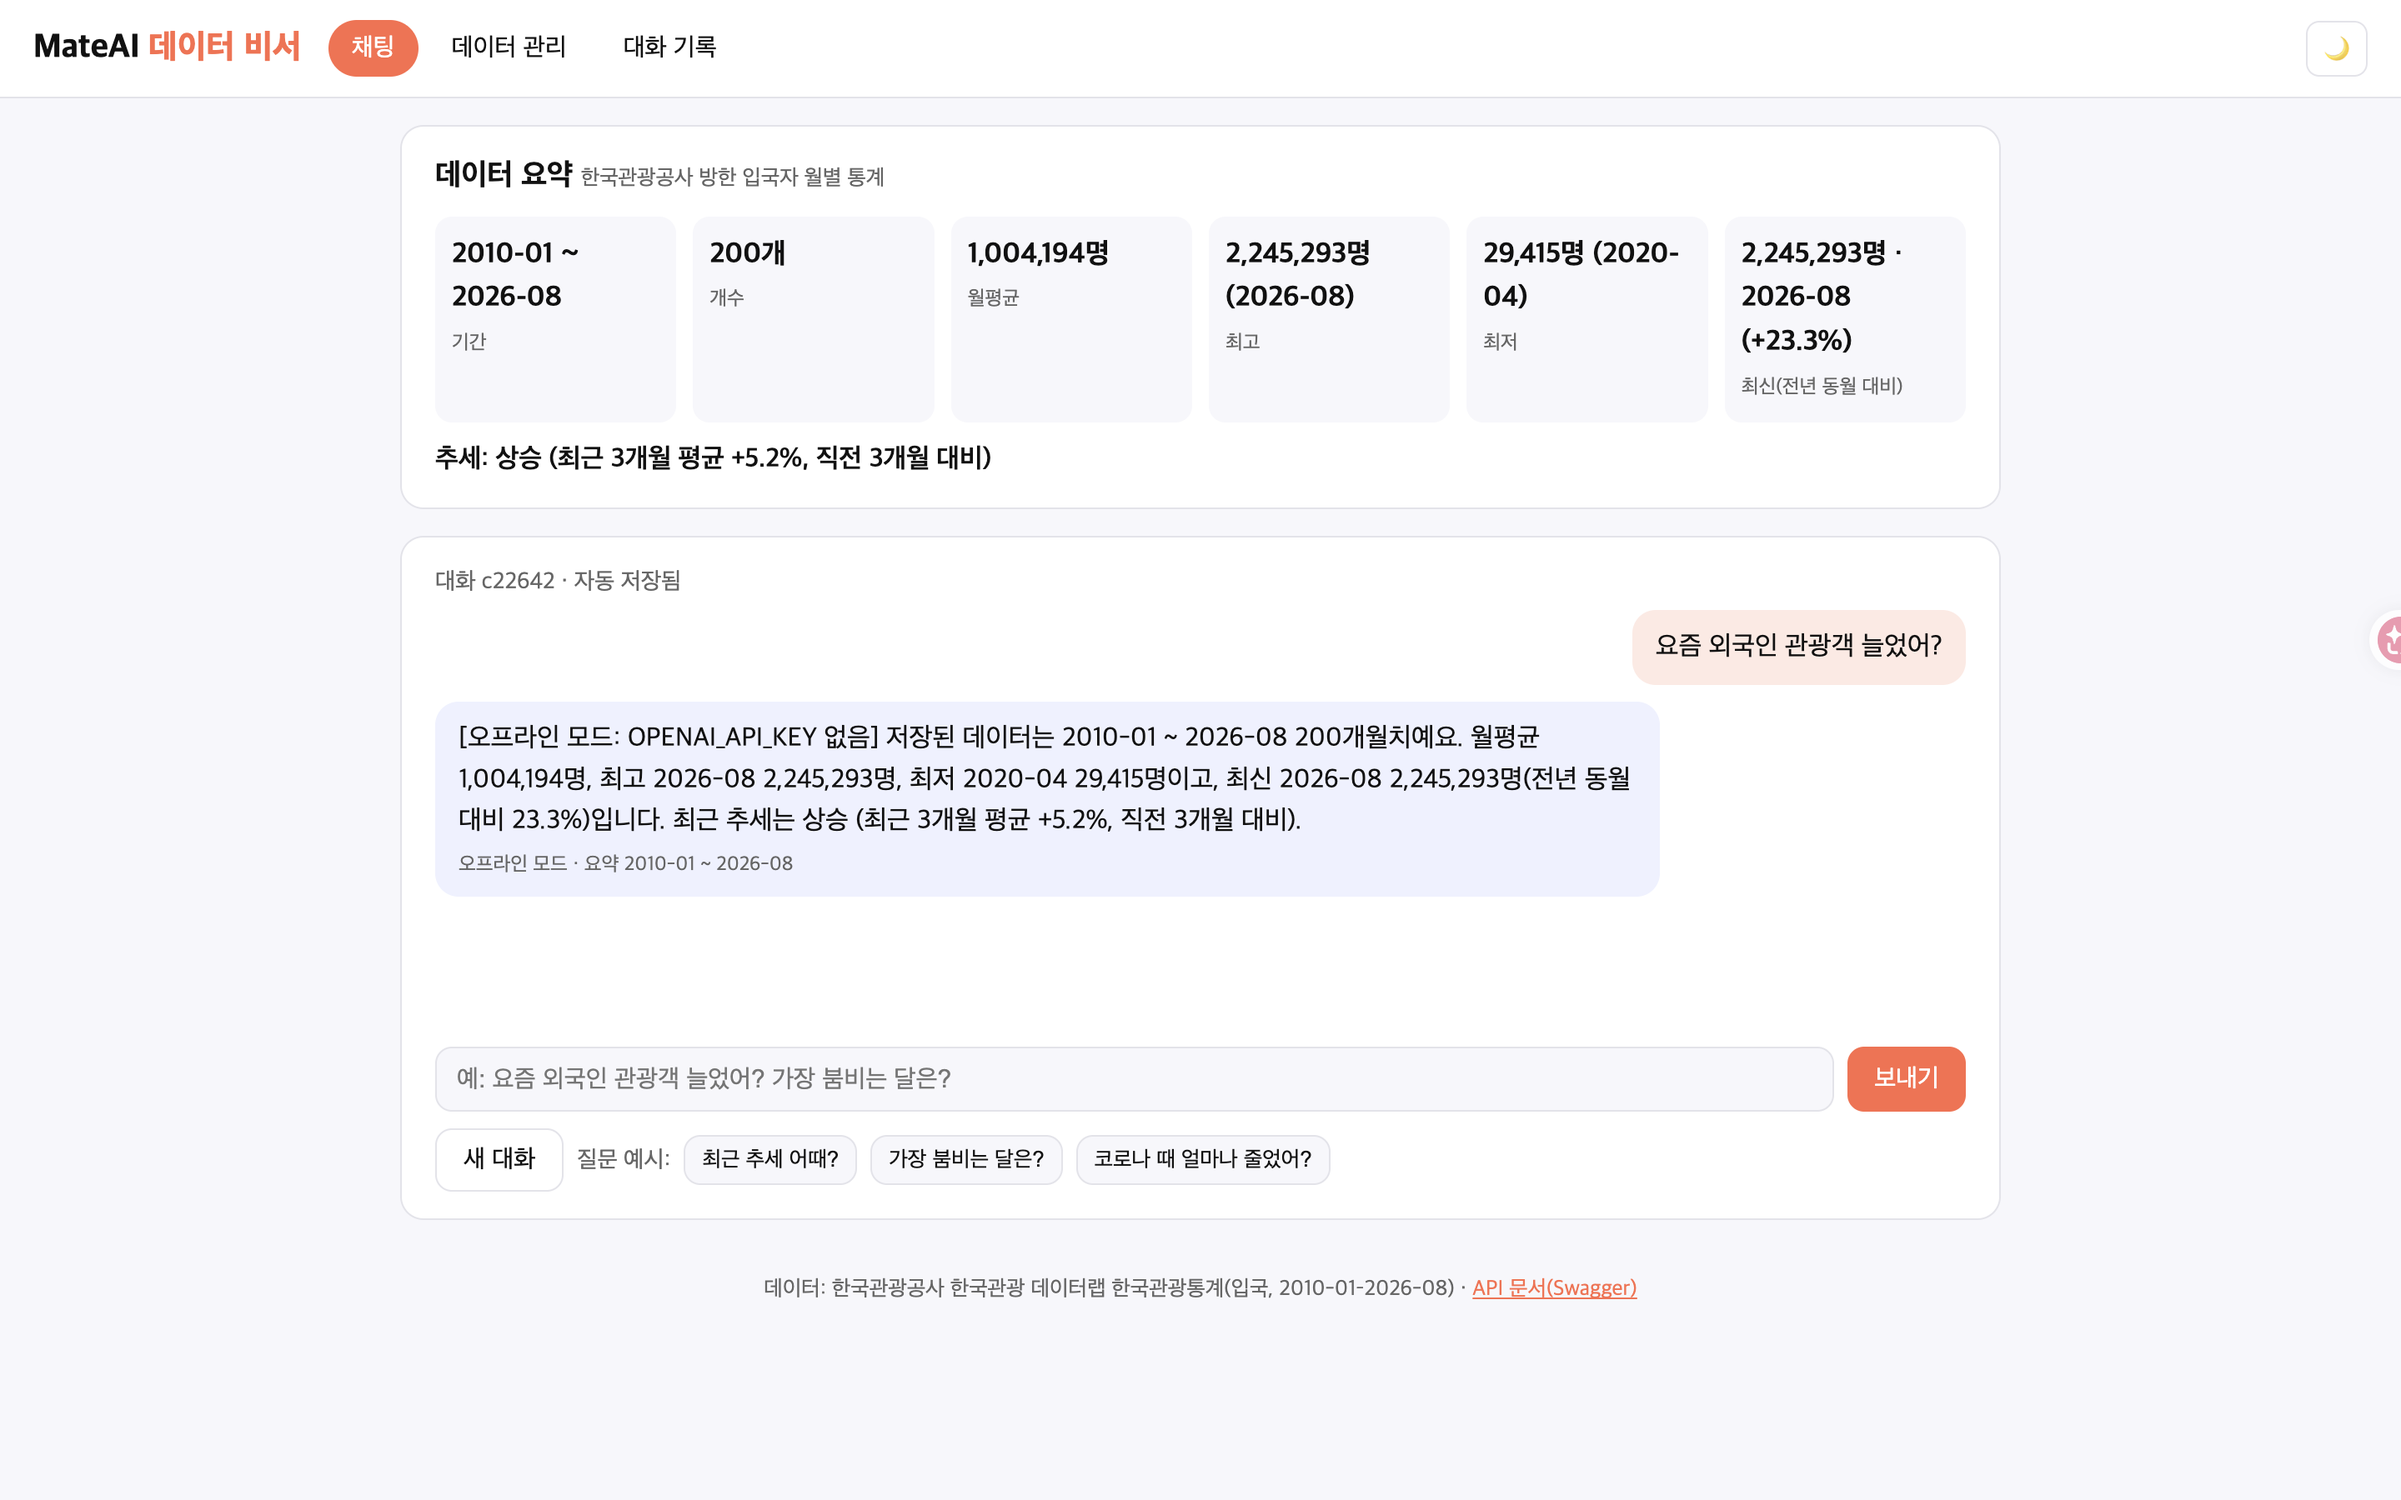
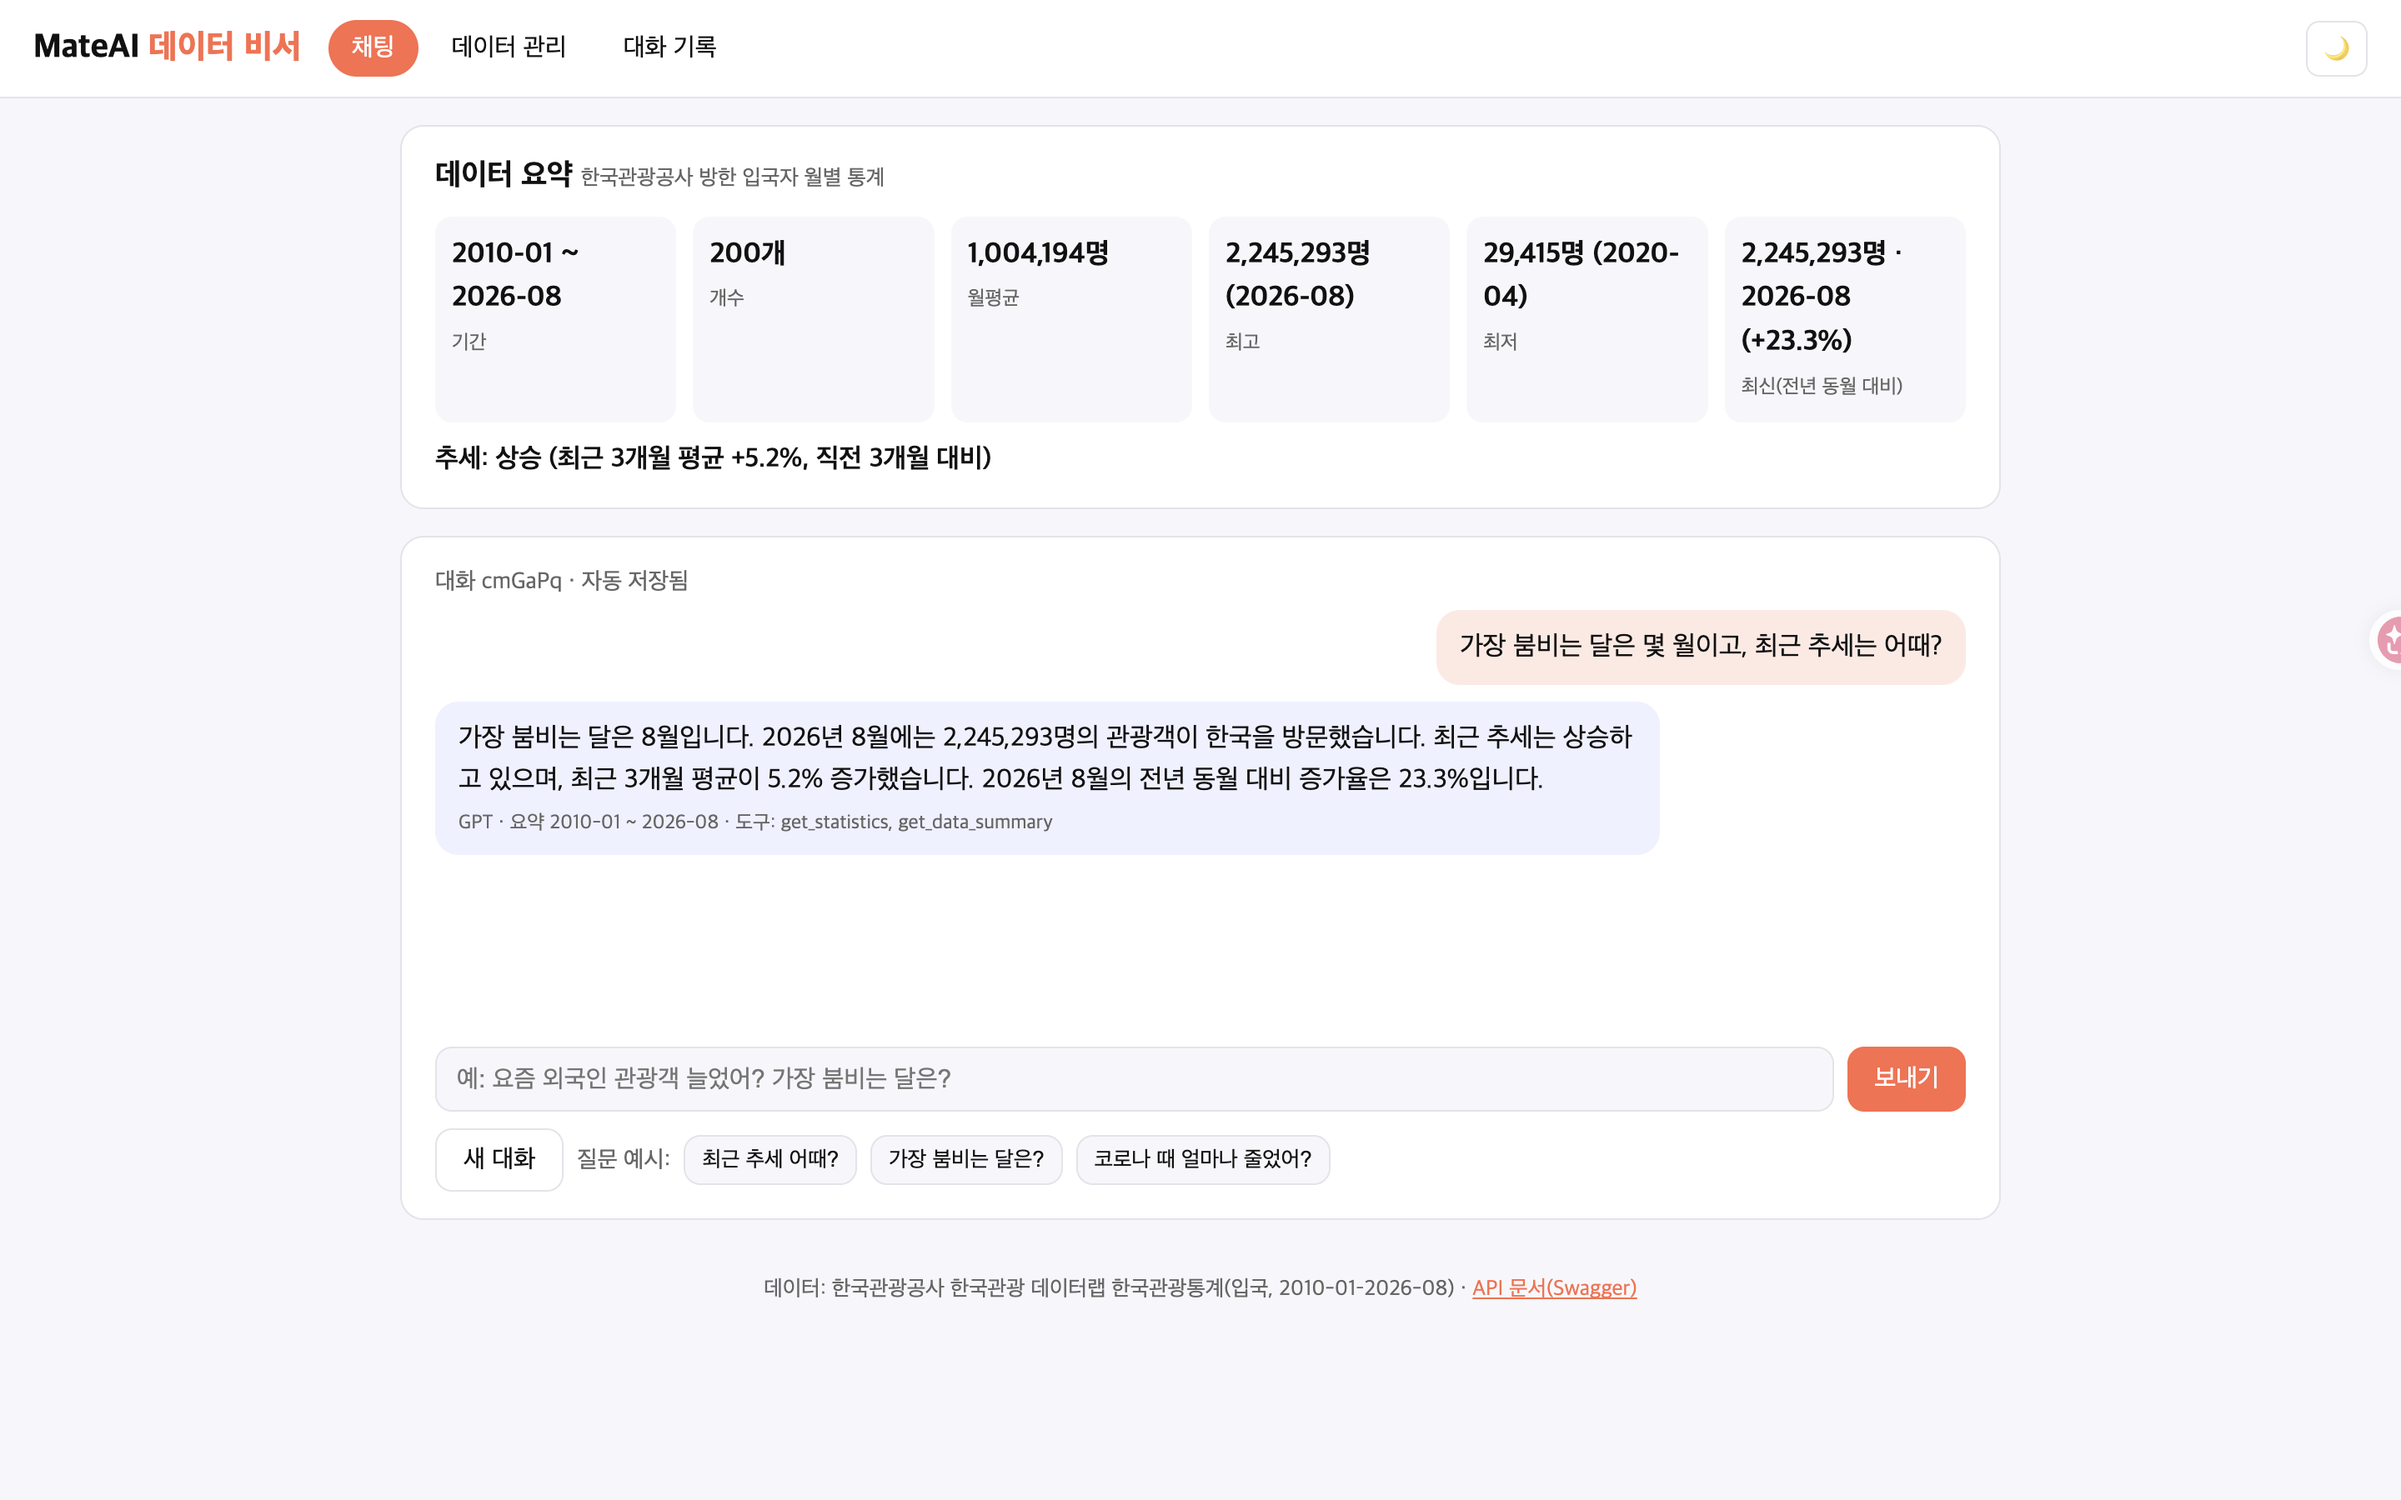
[Aside 9RMv1D9xEvZZywq0] GPT·Firestore 모드 스크린샷과 상태 갱신

Changed region(s): [[0.1875, 0.4044, 0.8125, 0.5911], [0.2188, 0.3733, 0.2812, 0.4044]]

diff --git a/README.md b/README.md
@@ -15,8 +15,7 @@
 | 솔루션 메이트 플랫폼(입장) | https://trymateai.com/ |
 | MateAI 여행 데모 | https://mateai-web-jk4v-two.vercel.app/ |
 | 이 과제 프론트(Vercel) | https://mateai-data-assistant.vercel.app/ |
-| 백엔드 API(Render, 규정 배포처) | https://mateai-data-assistant-api.onrender.com (배포 진행 중) |
-| 백엔드 API(Vercel, 예비) | https://mateai-data-assistant-api.vercel.app |
+| 백엔드 API(Vercel, Render 대체: 10-1절) | https://mateai-data-assistant-api.vercel.app |
 | Swagger UI | https://mateai-data-assistant-api.vercel.app/docs |
 
 ## 2. 데이터
@@ -45,9 +44,9 @@ MateAI 엔진이 이미 쓰는 공공 API(한국관광공사 TourAPI `apis.data.
 |---|---|---|---|
 | **FastAPI** | 파이썬으로 웹 API 서버를 만드는 프레임워크. 코드에서 Swagger 문서(`/docs`)를 자동으로 만든다. | 데이터 CRUD·요약·대화 기록·채팅 API 전부. 라우터(HTTP)와 서비스(계산·저장·AI)를 나눴다. | 완료. https://mateai-data-assistant-api.vercel.app/docs |
 | **Pydantic** | 들어오는 JSON의 형식을 검사하는 파이썬 라이브러리. | 날짜 형식, 입국자 수 0 이상, 메모 500자, 질문 2,000자 제한. 틀리면 422 오류로 막는다. | 완료 (`backend/app/schemas.py`) |
-| **Firebase Firestore** | Google의 클라우드 문서형 데이터베이스. 서버를 꺼도 데이터가 남는다. | `data` 컬렉션(관광 통계 200개, CRUD 대상)과 `conversations` 컬렉션(대화 기록 저장·불러오기). | 프로젝트 `mateai-data-assistant`·DB(서울) 생성 완료. **서비스 계정 키를 서버 환경 변수에 넣기 전이라, 지금 배포본은 임시 메모리 저장소로 돈다.** |
+| **Firebase Firestore** | Google의 클라우드 문서형 데이터베이스. 서버를 꺼도 데이터가 남는다. | `data` 컬렉션(관광 통계 200개, CRUD 대상)과 `conversations` 컬렉션(대화 기록 저장·불러오기). | 완료. 프로젝트 `mateai-data-assistant`, DB 서울(asia-northeast3). 배포본 `/health` = `store: firestore` |
 | **firebase-admin** | 서버가 Firestore에 접속하는 공식 파이썬 SDK. | `FIREBASE_SERVICE_ACCOUNT_JSON` 환경 변수로 로그인한다(키는 코드에 없음). | 코드 완료 (`services/store.py`) |
-| **OpenAI GPT API** | 대화형 AI 모델을 부르는 유료 API. | 시스템 프롬프트에 데이터 요약을 넣어 답하게 하고(컨텍스트 주입), 필요하면 도구 3개를 직접 부르게 한다(Function Calling). | 코드 완료. **`OPENAI_API_KEY`를 넣기 전이라 지금은 요약 숫자로 만든 정해진 답(오프라인 모드)을 낸다.** |
+| **OpenAI GPT API** | 대화형 AI 모델을 부르는 유료 API. | 시스템 프롬프트에 데이터 요약을 넣어 답하게 하고(컨텍스트 주입), 필요하면 도구 3개를 직접 부르게 한다(Function Calling). | 완료. 배포본 `/health` = `llm: openai`. 실측 질문 "가장 붐비는 달은?"에 `get_statistics`를 호출해 8월이라고 답함 |
 | **Render** | 깃허브 저장소를 연결하면 서버를 띄워 주는 클라우드. 무료 등급은 15분 쉬면 잠들어 첫 요청이 늦다. | 과제 규정상 FastAPI 백엔드의 정식 배포처. `render.yaml`에 빌드·실행 명령과 환경 변수 목록을 적었다. | **대체**: 가입 인증 메일이 오지 않아 Vercel로 배포(10-1절). |
 | **Vercel** | 정적 웹사이트(HTML/CSS/JS)를 배포하는 클라우드. | 바닐라 프론트 배포. 빌드 때 `API_BASE_URL` 환경 변수로 백엔드 주소를 `config.js`에 쓴다. | 완료. https://mateai-data-assistant.vercel.app/ |
 | **python-dotenv** | `.env` 파일의 값을 환경 변수로 읽는 라이브러리. | 로컬 실행 때 키를 코드 밖 `.env`에 둔다(`.gitignore`로 커밋 금지). | 완료 |
@@ -187,7 +186,7 @@ cd ../frontend && python3 -m http.server 5500   # http://localhost:5500 (config.
 | ② 데이터 관리(목록 200개·그래프·추가/수정/삭제) | ![data](docs/screenshots/data.png) |
 | ③ 대화 기록 | ![history](docs/screenshots/history.png) |
 
-지금 스크린샷은 오프라인 모드·메모리 저장소 상태다. 키를 넣으면 GPT 답과 Firestore 기반 대화 불러오기 화면으로 바꾼다.
+스크린샷은 2026-10-24 13:52 배포본(GPT + Firestore 모드)이다. ① 답 아래에 실제로 부른 도구(get_statistics, get_data_summary)가 표시된다. ③ 대화 목록에서 '불러오기'를 눌러 저장된 대화를 채팅 탭에 다시 띄운 화면이다.
 
 ## 12. 진행 상태 (2026-10-24)
 
@@ -196,6 +195,6 @@ cd ../frontend && python3 -m http.server 5500   # http://localhost:5500 (config.
 - [x] 바닐라 프론트(채팅·요약 카드·데이터 관리·대화 기록)
 - [x] 보너스: Function Calling 3개, statistics, 그래프, CSV/JSON 내보내기, 다크 모드
 - [x] Firebase 프로젝트 `mateai-data-assistant` + Firestore(asia-northeast3) 생성
-- [x] Vercel 프론트·예비 백엔드 배포(현재 메모리 저장소·오프라인 답)
-- [ ] Render 배포, 서비스 계정 키·OpenAI 키 입력(→ Firestore·GPT 모드), 스크린샷 기입
+- [x] Vercel 프론트·백엔드 배포, 서비스 계정 키·OpenAI 키 입력(Firestore·GPT 모드), 스크린샷
+- [ ] Render 배포(가입 인증 메일 미수신, 10-1절)
 - [ ] 보너스: MCP Server 또는 GPT Actions 연동
